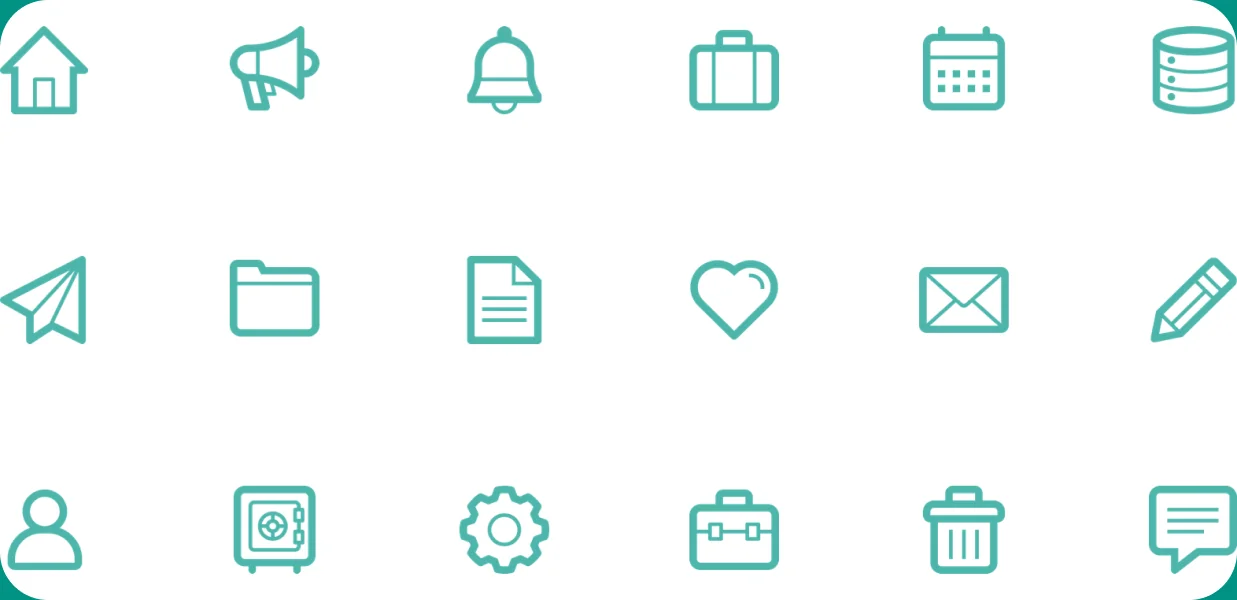
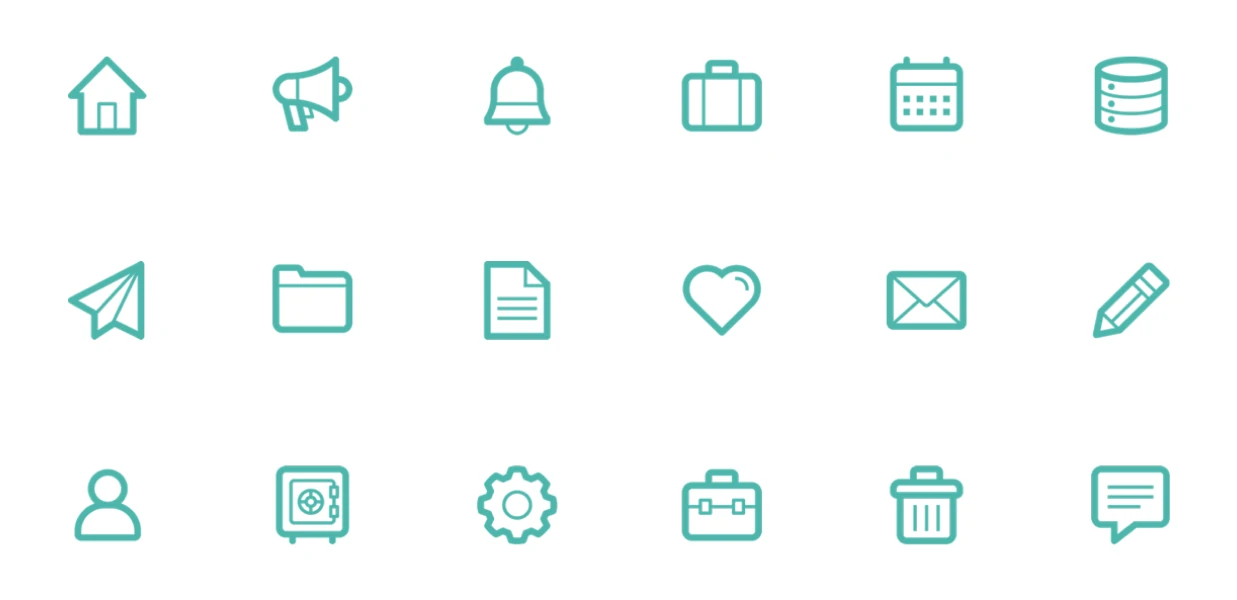
Homepage: new Cooper thumbnail and three-photo Semi Sweet card on desktop
Cooper image re-exported from Figma with padding around the icons. Semi Sweet card shows the cookie wreath plus bunny and Halloween cookie photos at 1024px and up; tablet and mobile keep the single photo.

Claude-Session: https://claude.ai/code/session_01FHsoQumYuZJ7Wb3pSk6XgF

diff --git a/index.html b/index.html
@@ -131,7 +131,11 @@
         <p>A one-stop shop for recipes, cutters, tutorials, packaging, and apparel. Teaching people to decorate through unique tools and tutorials online.</p>
         <ul class="tags"><li>Brand</li><li>Packaging</li><li>Email</li><li>Web</li></ul>
       </div>
-      <div class="card-img"><img src="assets/work/semisweet.jpg" alt="Decorated Semi Sweet cookies" class="cover" loading="lazy"></div>
+      <div class="card-imgs">
+        <div class="card-img ss-main"><img src="assets/work/semisweet.jpg" alt="Decorated Semi Sweet cookies" class="cover" loading="lazy"></div>
+        <div class="card-img ss-extra"><img src="assets/work/semisweet-2.webp" alt="Bunny cookie with an orange bow, decorated with royal icing" class="cover" loading="lazy" width="826" height="600"></div>
+        <div class="card-img ss-extra"><img src="assets/work/semisweet-3.webp" alt="Halloween monster face cookies on a plate" class="cover" loading="lazy" width="826" height="600"></div>
+      </div>
     </a>
 
     <a class="card card-chariot" href="work/chariot/">

diff --git a/css/style.css b/css/style.css
@@ -112,6 +112,9 @@ h1,h2,h3,p{margin:0}
 .card-chariot{background:#1e355e;border-radius:32px}
 .card-cooper{background:#009284;border-radius:32px}
 .img-cooper{background:#fff}
+.card-imgs{display:flex;gap:20px;margin-top:auto}
+.card-imgs .card-img{margin-top:0;flex:413 1 0;min-width:0}
+.card-imgs .ss-main{flex-grow:433}
 
 /* About */
 .about{display:flex;flex-direction:column;gap:20px;padding:80px 50px}
@@ -148,6 +151,7 @@ h1,h2,h3,p{margin:0}
 /* Tablet */
 @media (max-width:699px){.skills{gap:8px}.skill-row{-webkit-mask-image:linear-gradient(90deg,transparent,#000 40px,#000 calc(100% - 40px),transparent);mask-image:linear-gradient(90deg,transparent,#000 40px,#000 calc(100% - 40px),transparent)}}
 @media (max-width:1023px){
+  .ss-extra{display:none}
   .nav-wrap{padding:10px 20px}
   .hero{padding-top:80px}
   .skill span{font-size:22px}
